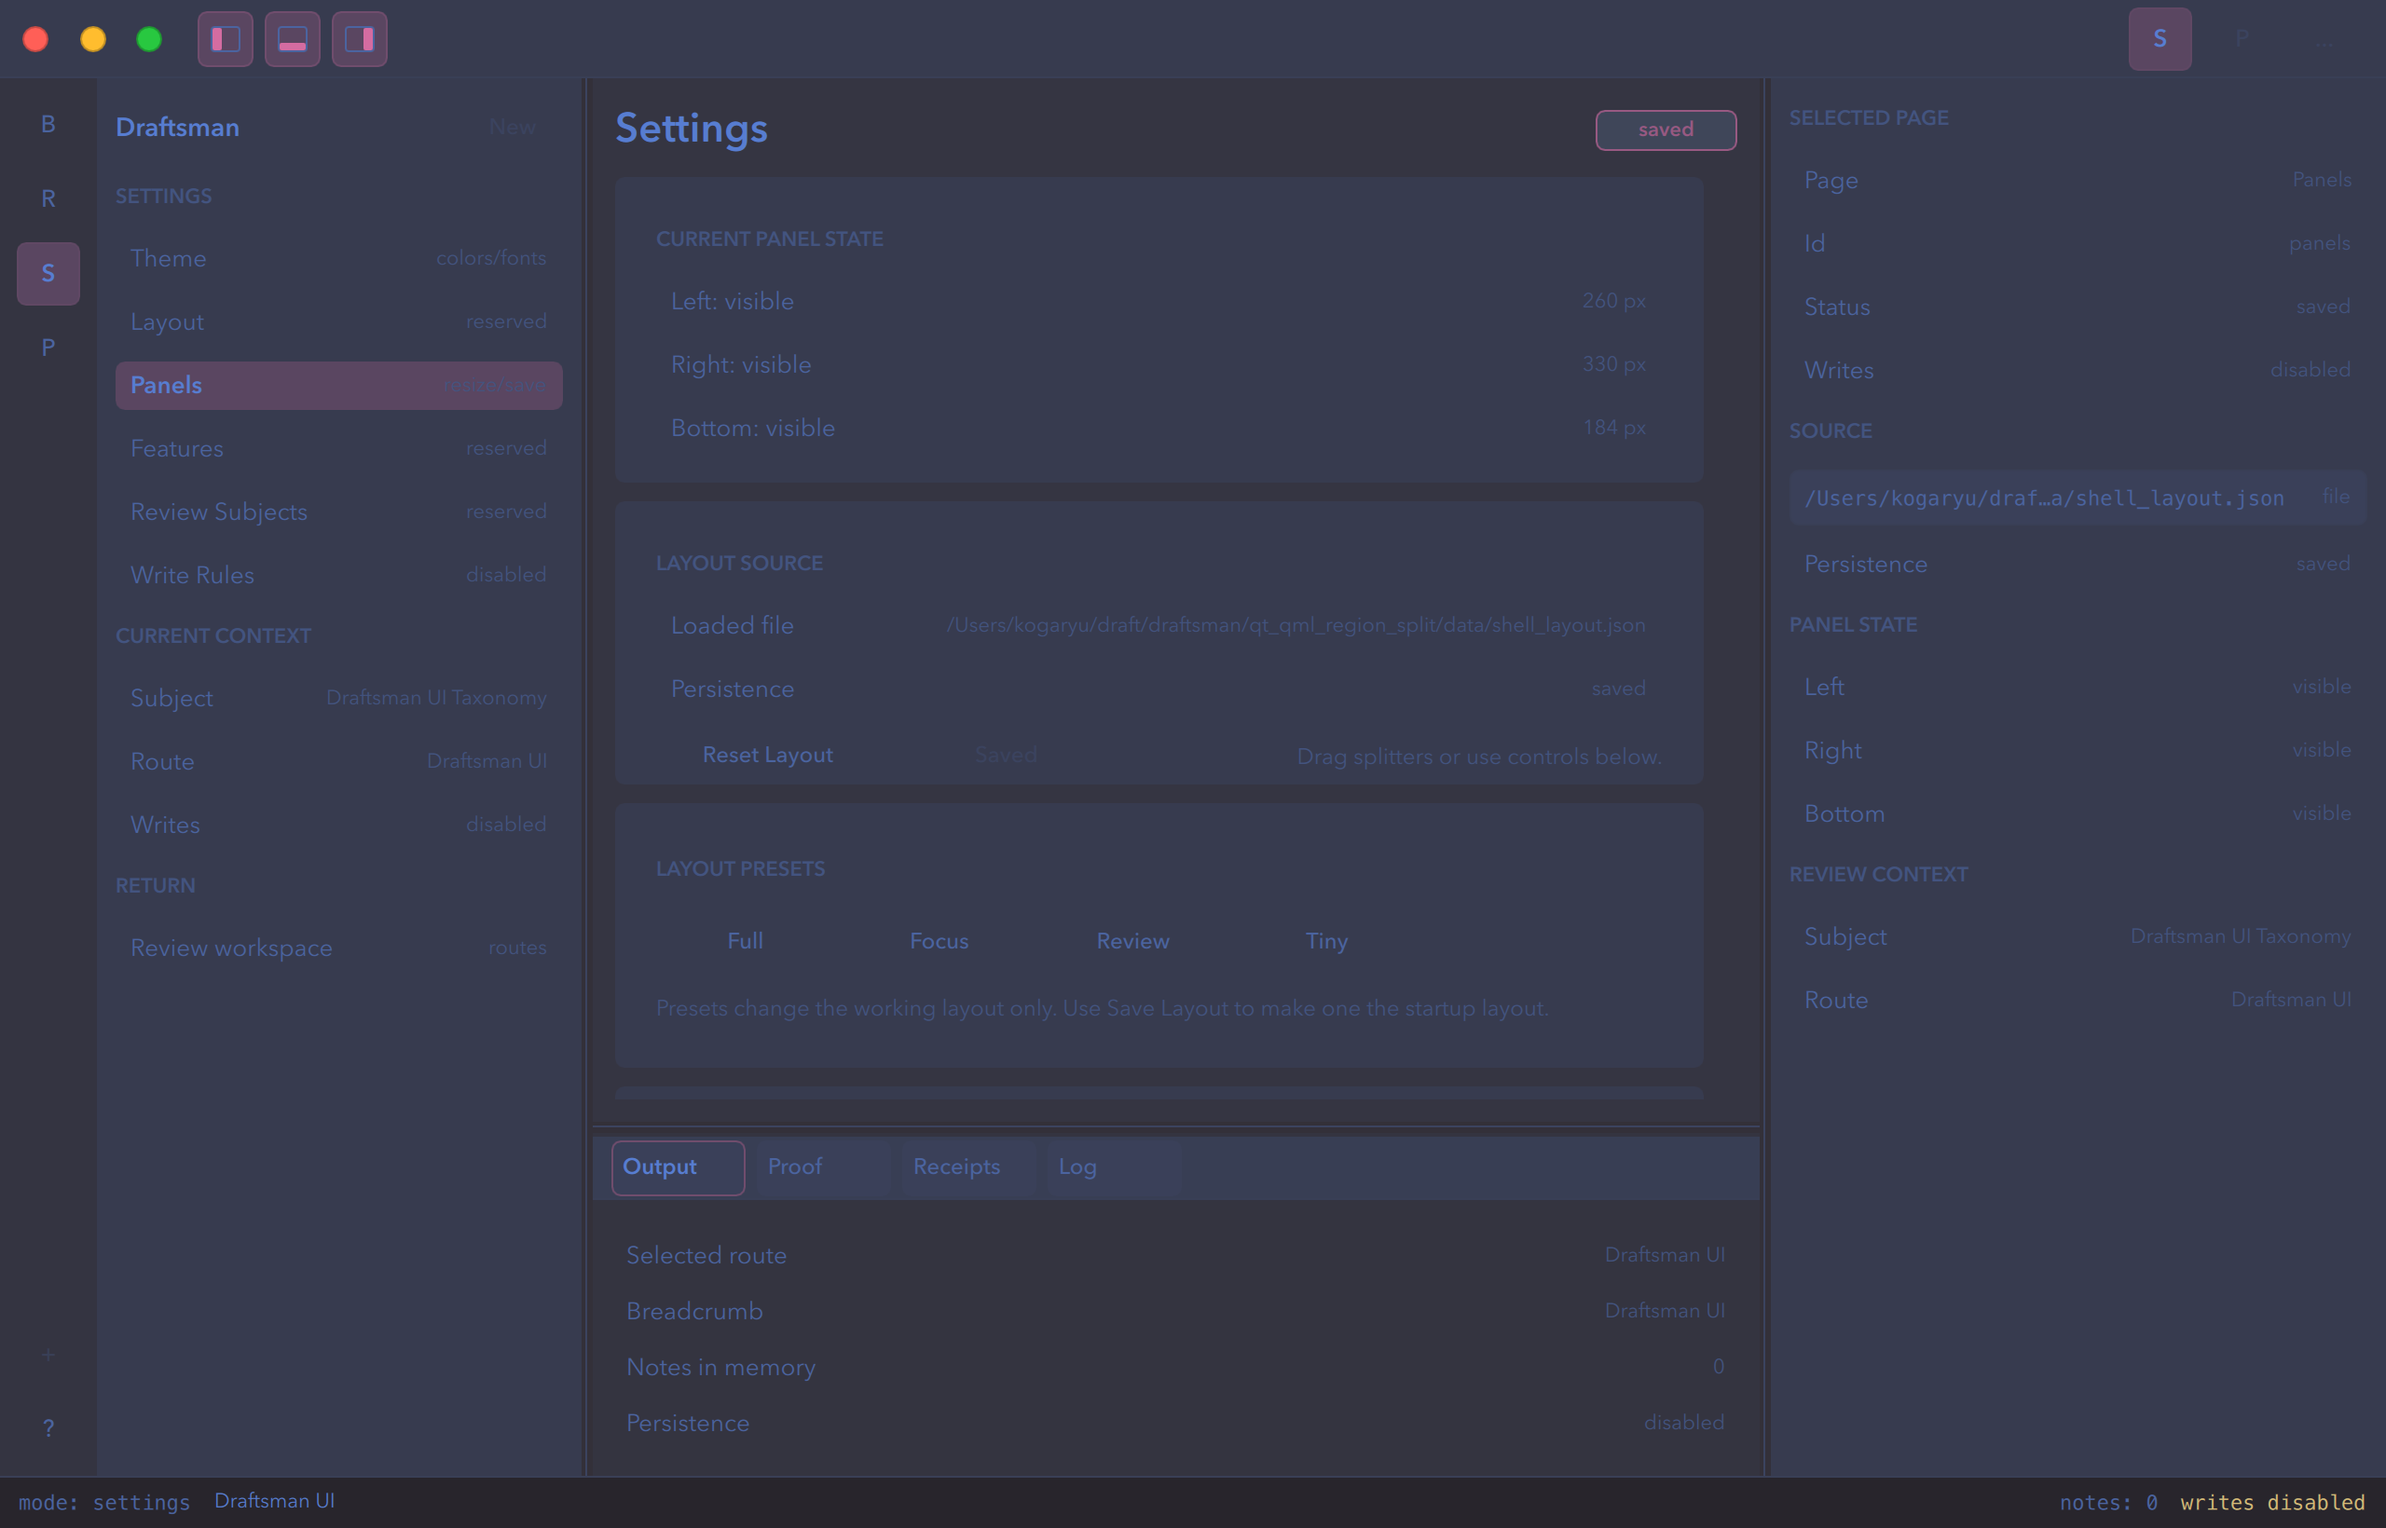
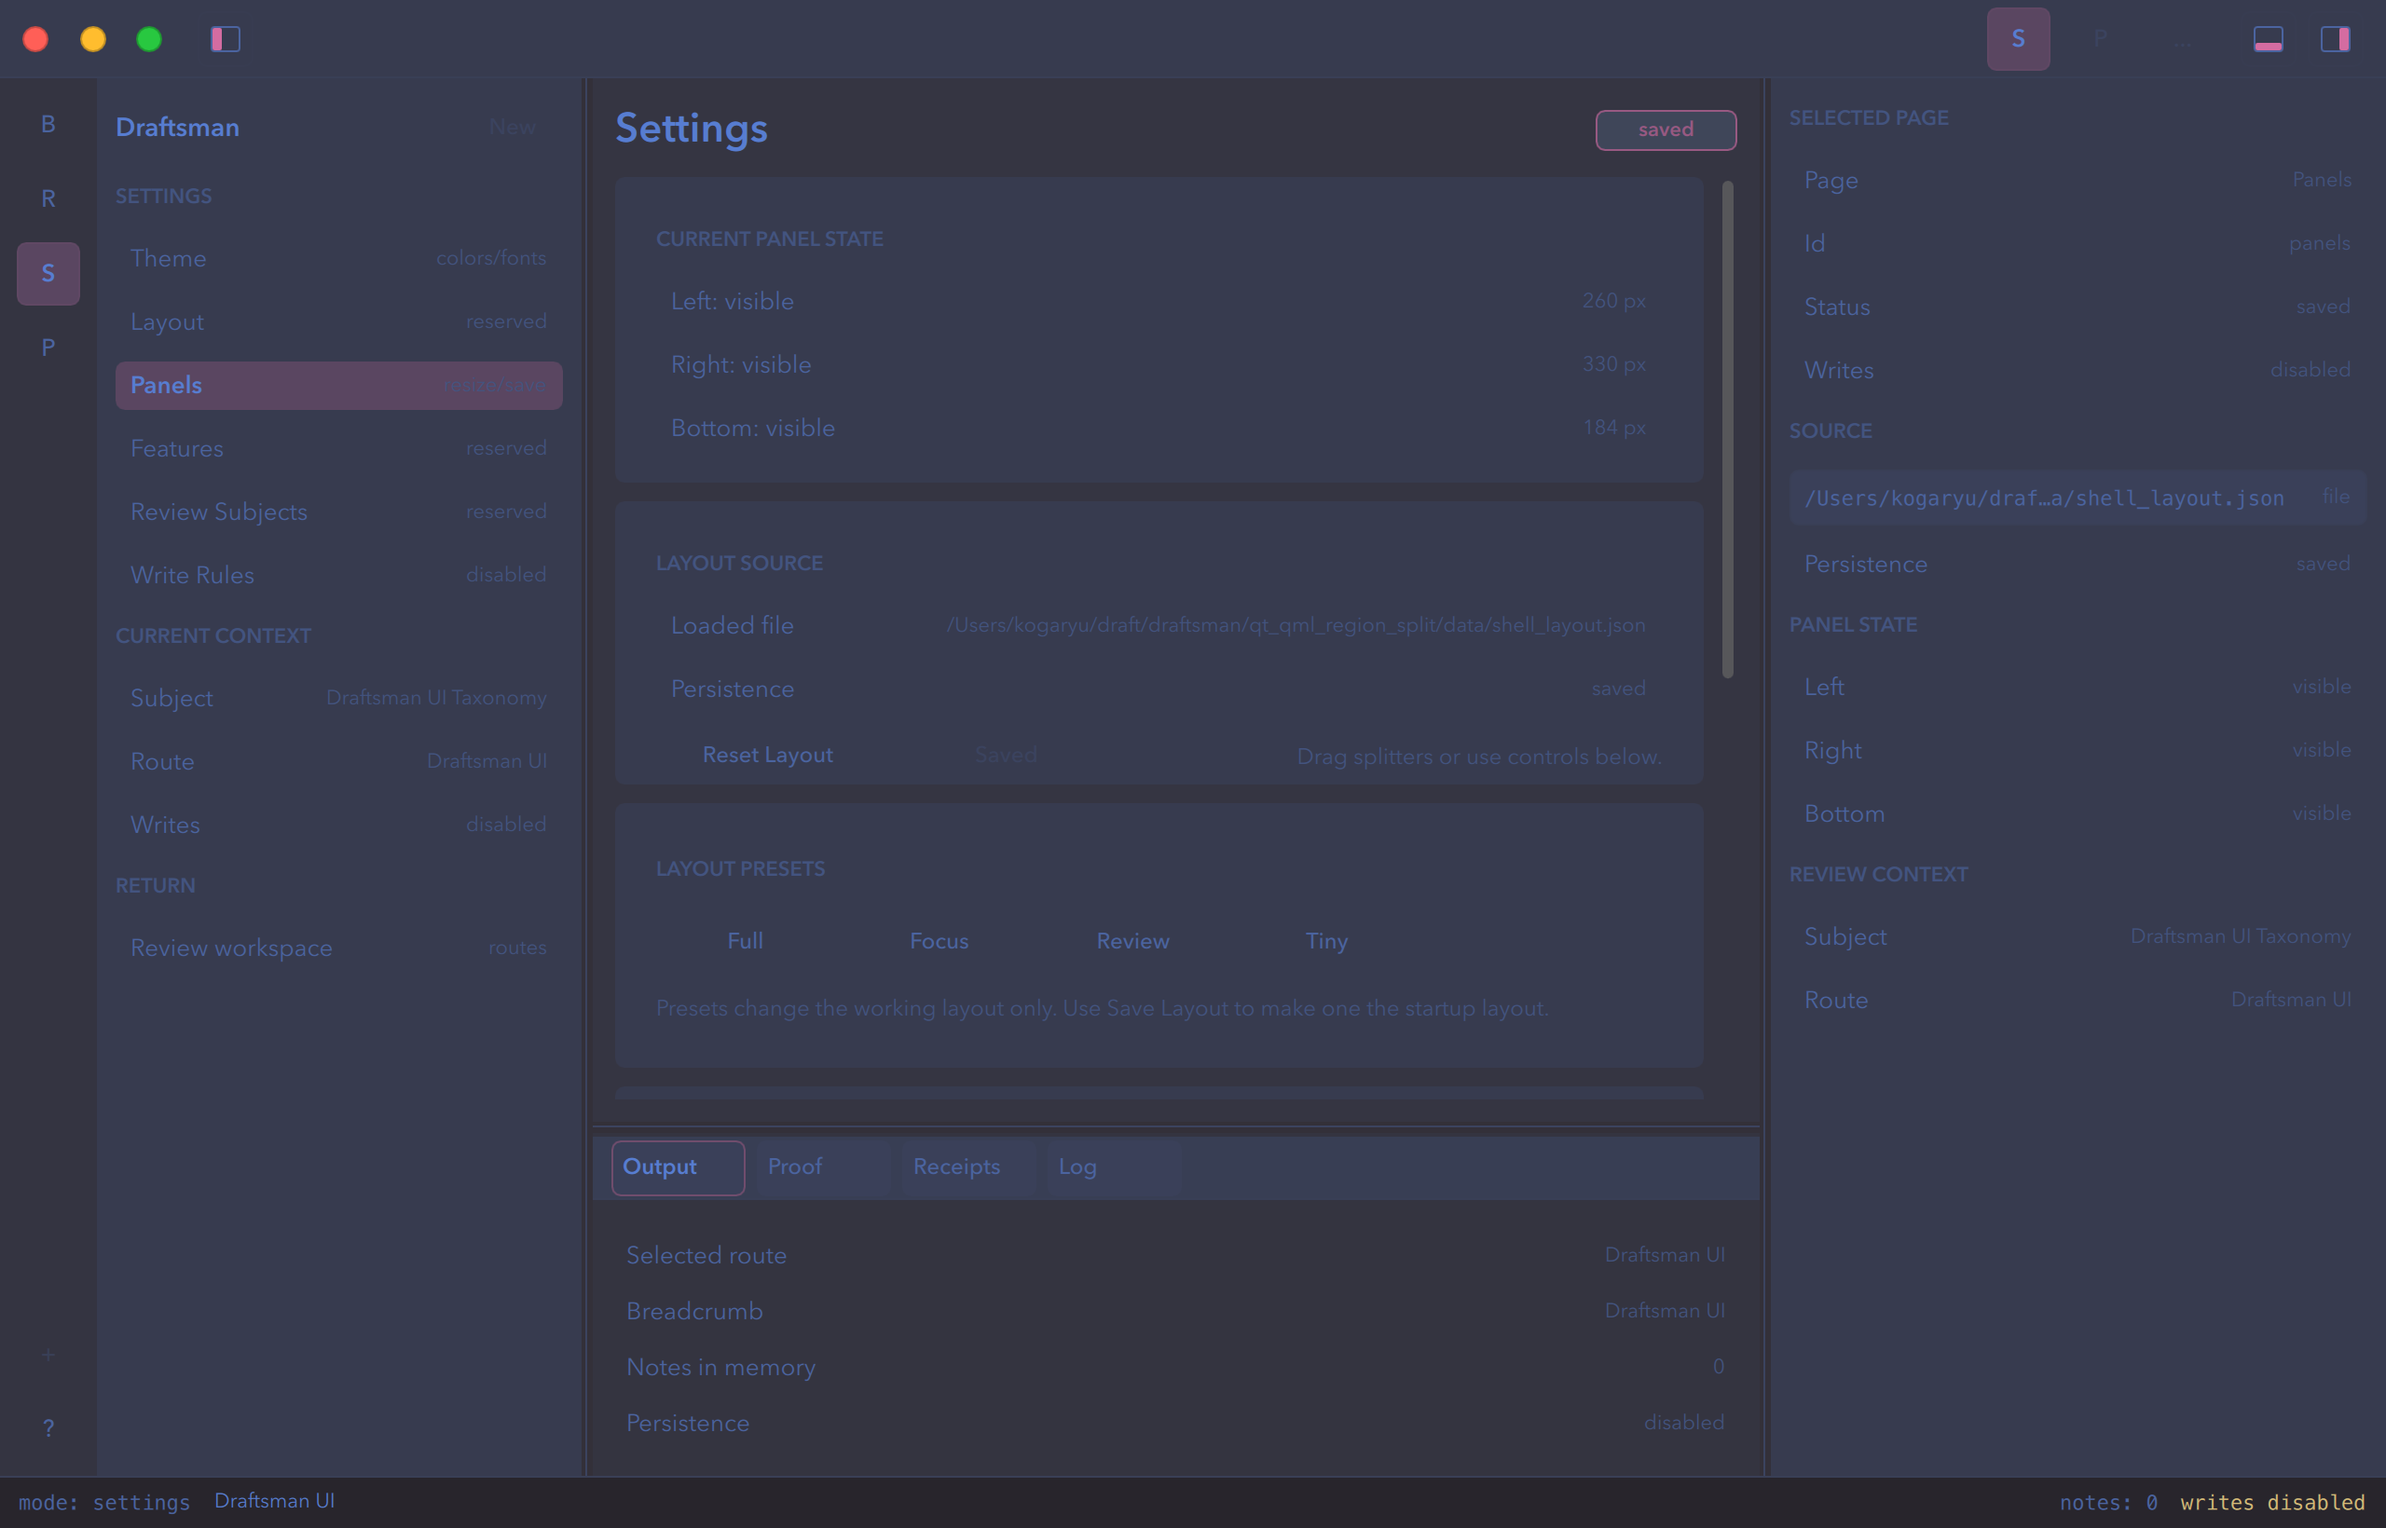
Move edge panel toggles to title bar edges

Changed region(s): [[0.7188, 0.1244, 0.75, 0.4354], [0.8125, 0.0, 0.9375, 0.0622], [0.0625, 0.0, 0.1875, 0.0622]]

diff --git a/src/regions/WindowTitleBar.qml b/src/regions/WindowTitleBar.qml
@@ -116,22 +116,6 @@ Rectangle {
                 selected: panelState === "visible"
                 onClicked: titleBar.controller.toggleLeftPanel()
             }
-
-            UiPanelToggleButton {
-                edge: "bottom"
-                panelState: titleBar.controller ? titleBar.controller.panelState("bottom") : "visible"
-                tooltip: titleBar.panelTooltip("bottom", "Bottom panel")
-                selected: panelState === "visible"
-                onClicked: titleBar.controller.toggleBottomPanel()
-            }
-
-            UiPanelToggleButton {
-                edge: "right"
-                panelState: titleBar.controller ? titleBar.controller.panelState("right") : "visible"
-                tooltip: titleBar.panelTooltip("right", "Right panel")
-                selected: panelState === "visible"
-                onClicked: titleBar.controller.toggleRightPanel()
-            }
         }
 
         RowLayout {
@@ -191,6 +175,26 @@ Rectangle {
                 label: "..."
                 tooltip: "More"
                 enabled: false
+            }
+        }
+
+        RowLayout {
+            spacing: UiStyle.space6
+
+            UiPanelToggleButton {
+                edge: "bottom"
+                panelState: titleBar.controller ? titleBar.controller.panelState("bottom") : "visible"
+                tooltip: titleBar.panelTooltip("bottom", "Bottom panel")
+                selected: panelState === "visible"
+                onClicked: titleBar.controller.toggleBottomPanel()
+            }
+
+            UiPanelToggleButton {
+                edge: "right"
+                panelState: titleBar.controller ? titleBar.controller.panelState("right") : "visible"
+                tooltip: titleBar.panelTooltip("right", "Right panel")
+                selected: panelState === "visible"
+                onClicked: titleBar.controller.toggleRightPanel()
             }
         }
     }

diff --git a/src/components/UiPanelToggleButton.qml b/src/components/UiPanelToggleButton.qml
@@ -15,13 +15,34 @@ Rectangle {
     implicitHeight: 30
     radius: UiStyle.radiusSm
     color: mouseArea.containsMouse ? UiStyle.colorControlHover
-        : panelState === "visible" ? UiStyle.colorSelected
         : panelState === "auto_hidden" ? UiStyle.mix(UiStyle.colorControl, UiStyle.colorWarning, 0.18)
-        : UiStyle.colorControl
-    border.color: panelState === "visible" ? UiStyle.colorBorderFocus
+        : panelState === "collapsed" ? UiStyle.colorControl
+        : UiStyle.colorTransparent
+    border.color: mouseArea.containsMouse ? UiStyle.colorBorderMinor
         : panelState === "auto_hidden" ? UiStyle.colorWarning
-        : UiStyle.colorBorderMinor
-    border.width: UiStyle.borderThin
+        : panelState === "collapsed" ? UiStyle.colorBorderMinor
+        : UiStyle.colorTransparent
+    border.width: mouseArea.containsMouse || panelState !== "visible" ? UiStyle.borderThin : UiStyle.borderNone
+
+    Rectangle {
+        anchors.fill: parent
+        visible: panelState === "visible" && !mouseArea.containsMouse
+        radius: parent.radius
+        color: UiStyle.colorTransparent
+        border.color: UiStyle.colorBorderMinor
+        border.width: UiStyle.borderThin
+        opacity: 0.28
+    }
+
+    Rectangle {
+        anchors.fill: parent
+        visible: panelState === "visible" && mouseArea.containsMouse
+        radius: parent.radius
+        color: UiStyle.colorTransparent
+        border.color: UiStyle.colorBorderFocus
+        border.width: UiStyle.borderThin
+        opacity: 0.75
+    }
 
     ToolTip.visible: mouseArea.containsMouse && tooltip.length > 0
     ToolTip.text: tooltip
